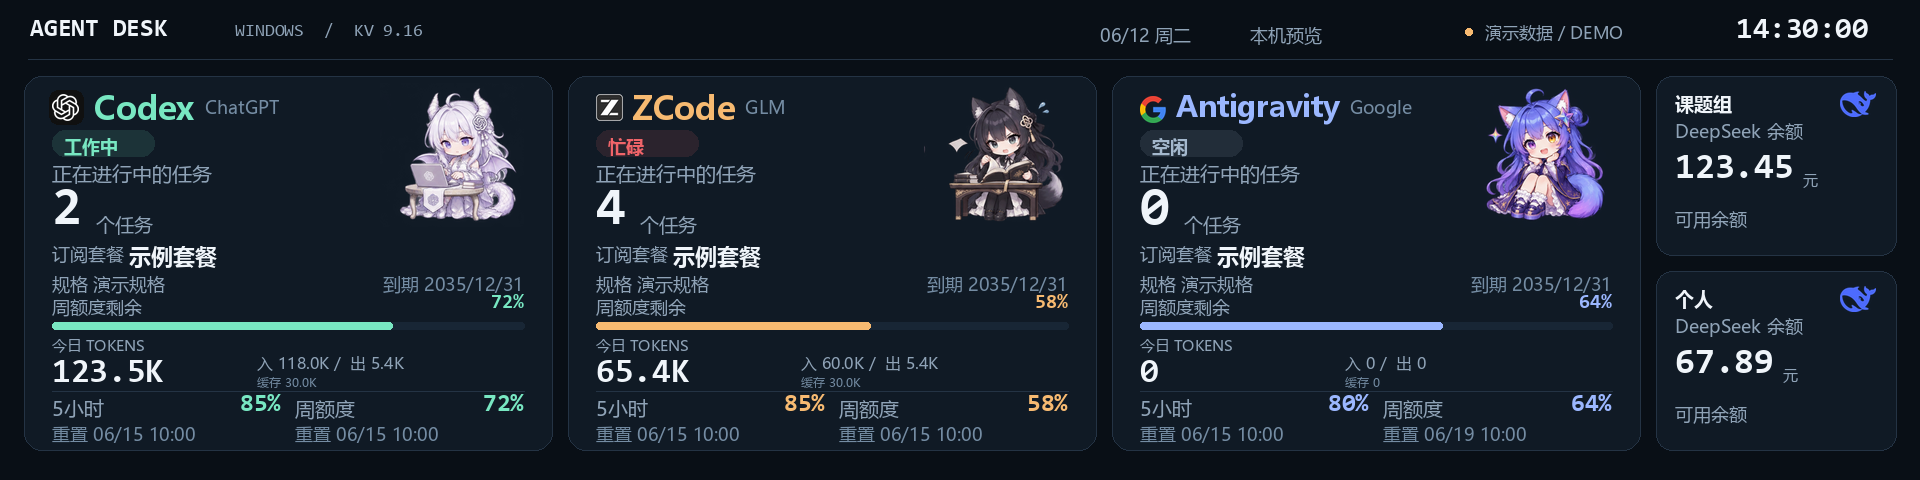
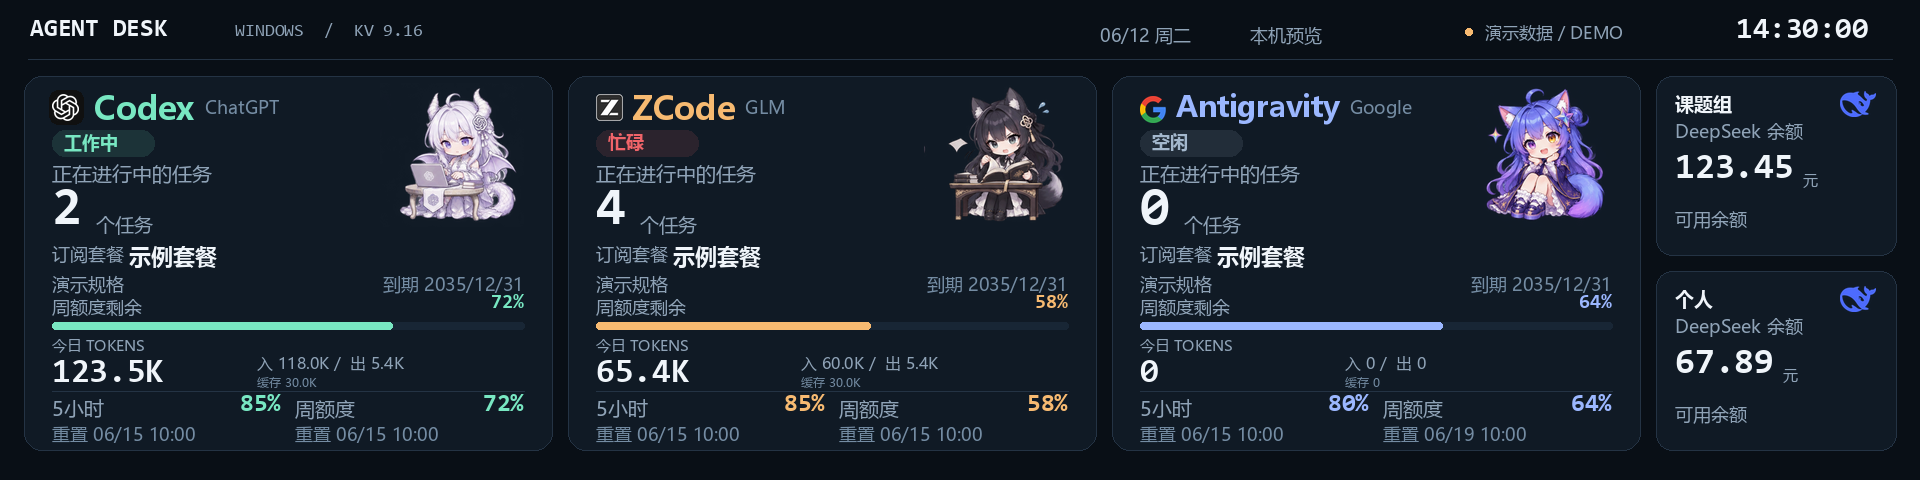
Record large-portrait release and installed layout verification

diff --git a/docs/HANDOFF.md b/docs/HANDOFF.md
@@ -4,8 +4,8 @@
 
 ## 当前状态
 
-- 截至 2026-11-05，正式版本为 [v0.8.0](https://github.com/WangSonglin992/kv-agent-desk/releases/tag/v0.8.0)，功能源码基线为 `912a5cd548bde1a0c9b3dc71c97e84b58bb59520`。本机已用官方 SHA-256 校验包更新到 `D:\APP\KV-Agent-Desk`。
-- 手动 CI `41974753132` 和正式发布 CI `41975148889` 均通过；手动 CI 运行 314 项测试、跳过 1 项，并验证三张动画图集确实嵌入 EXE、源/打包程序 smoke、四阶段安装选项记忆、卸载与数据保留。
+- 截至 2026-11-05，正式版本为 [v0.8.1](https://github.com/WangSonglin992/kv-agent-desk/releases/tag/v0.8.1)，功能源码基线为 `0776d31b557450a556e21cb87a10475d84225945`。本机已用官方 SHA-256 校验包更新到 `D:\APP\KV-Agent-Desk`。
+- 手动 CI `41980486600` 和正式发布 CI `41981008352` 均通过；手动 CI 运行 316 项测试、跳过 1 项，并验证三张动画图集确实嵌入 EXE、源/打包程序 smoke、四阶段安装选项记忆、卸载与数据保留。
 - 本机验收确认程序版本与官方 EXE 哈希一致、配置指纹未变、全部自定义样式和当前选择保留、历史缓存仍在、启动恢复上次画面、USB 已连接。桌面快捷方式和 Run 登记均指向安装目录与同一用户数据目录。没有执行实际 Windows 重启，也没有公开用户资料或画面。
 - 安装器在 v0.7.5 已修复 PowerShell 快捷方式收尾超时、Inno 吞掉完成阶段错误和短/长路径别名比较问题。使用原生 Inno 处理受信任快捷方式，失败退出码为 73；旧失败 tag 不重写，v0.7.4 没有 Release。
 
@@ -19,6 +19,7 @@ KV/Trofeo Vision 9.16 使用 WinUSB VID:PID `0416:5408`。逻辑画布 1920×480
 
 - 主画面固定为 Codex、ZCode、Antigravity 三张 Agent 卡；任务只显示数量，不显示标题或计划/计划进度。无可靠任务数或 Token 且没有可信历史时按用户要求显示 `0`；额度未知仍保持未知。
 - 任务数超过 3 个时标红为忙碌。v0.8.0 状态指示器使用 AI 娘：Codex 白发龙娘、ZCode 黑发持书形象、Antigravity 蓝紫猫耳形象。空闲、工作、忙碌分别使用不同帧组；空闲周期 4 秒并按默认 1Hz 推进，工作周期 2 秒、忙碌周期 0.65 秒，沿用快速刷新。unknown/offline 不播放假工作动画，素材不可用时回退原指示器。官方 logo 和状态小字保留。
+- v0.8.1 默认角色扩大为 144 像素，窄/短卡片自适应为 112–144 像素，图集为每帧 192 像素。角色独立放在右上区域，状态、任务、套餐与底部额度重新排布；保留全部语义 ID、独立偏移和数据字段，不自动重写用户副本。
 - Antigravity 展示 Gemini 共享的 5 小时和周额度；Claude/GPT 独立额度组在此面板忽略。无数据或陈旧数据时保留最后可信值/画面并给低调检查提示。
 - DeepSeek 只显示右侧上下两张紧凑余额卡。无法可靠验证可用额度的 LiteLLM / 课题组 GLM 槽位不接入。ChatGPT 套餐规格/到期日保存在独立手填资料中；用户的月付套餐按月检查并手动更新，程序不会自动延长 `expires_at`。这与实时 5 小时/周额度读取无关。
 - ChatGPT 确实没有 5 小时限额时，由控制页的 `codex_no_five_hour_limit` 个人设置将该窗口固定显示为 100%；不要用 API 余额推算它。OpenAI API 剩余额度源尚未接入：只读测试能认证 API Key，但费用统计与旧余额接口没有提供可用余额，因此没有添加“三个账户选两个”的配置，也不能用 Costs 费用冒充余额。不要读取网页登录会话凭据来绕过这一限制。

diff --git a/docs/WORKSPACE-MIGRATION.md b/docs/WORKSPACE-MIGRATION.md
@@ -4,9 +4,9 @@
 
 ## 当前状态
 
-- 截至 2026-11-05，正式版本为 `v0.8.0`，已安装到 `D:\APP\KV-Agent-Desk`。功能源码基线为 `912a5cd548bde1a0c9b3dc71c97e84b58bb59520`；之后的交接文档修订以最新 main 为准。
-- 正式 CI `41975148889` 通过；手动 CI `41974753132` 运行 314 项测试、跳过 1 项，并通过资源嵌入、源/EXE smoke、安装选项四阶段和卸载保留测试。本机也验证了版本/EXE 哈希、配置与样式留存、所选样式、缓存画面、USB 连接和桌面/Run 登记。
-- v0.8.0 新增三张 AI 娘三态动画图集，三个主题共用。原始参考图不进入仓库；插画许可与代码许可分开。旧失败 tag 保留，v0.7.4 无 Release；安装生命周期问题已在 v0.7.5 修复，不再是待办。
+- 截至 2026-11-05，正式版本为 `v0.8.1`，已安装到 `D:\APP\KV-Agent-Desk`。功能源码基线为 `0776d31b557450a556e21cb87a10475d84225945`；之后的交接文档修订以最新 main 为准。
+- 正式 CI `41981008352` 通过；手动 CI `41980486600` 运行 316 项测试、跳过 1 项，并通过资源嵌入、源/EXE smoke、安装选项四阶段和卸载保留测试。本机也验证了版本/EXE 哈希、配置与样式留存、所选样式、缓存画面和 USB 连接；更新沿用原安装路径与选项。
+- v0.8.0 新增三张 AI 娘三态动画图集，v0.8.1 扩大为默认 144 像素并重排三套主题。当前选中布局也确认为 144 像素，全部已保存样式继续保留。原始参考图不进入仓库；插画许可与代码许可分开。旧失败 tag 保留，v0.7.4 无 Release；安装生命周期问题已在 v0.7.5 修复，不再是待办。
 
 ## Windows 设置和本地资料
 
